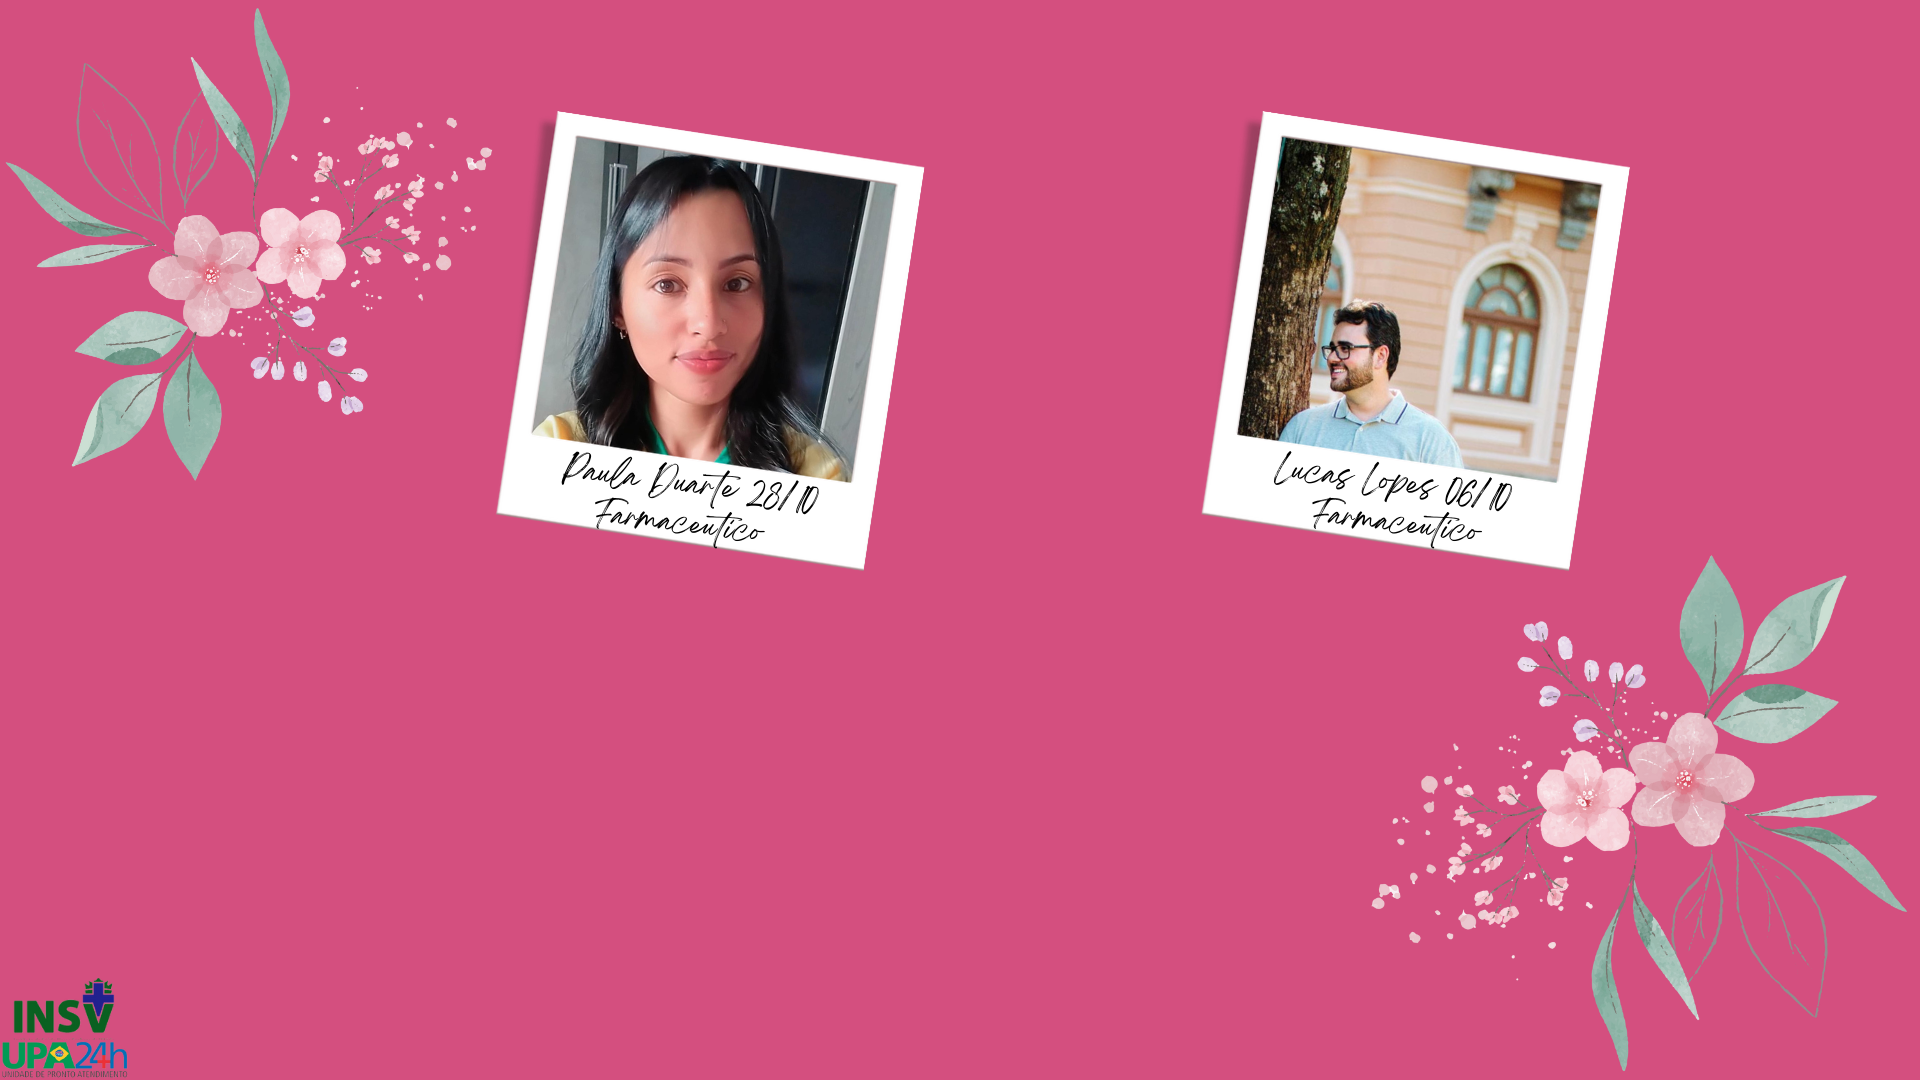
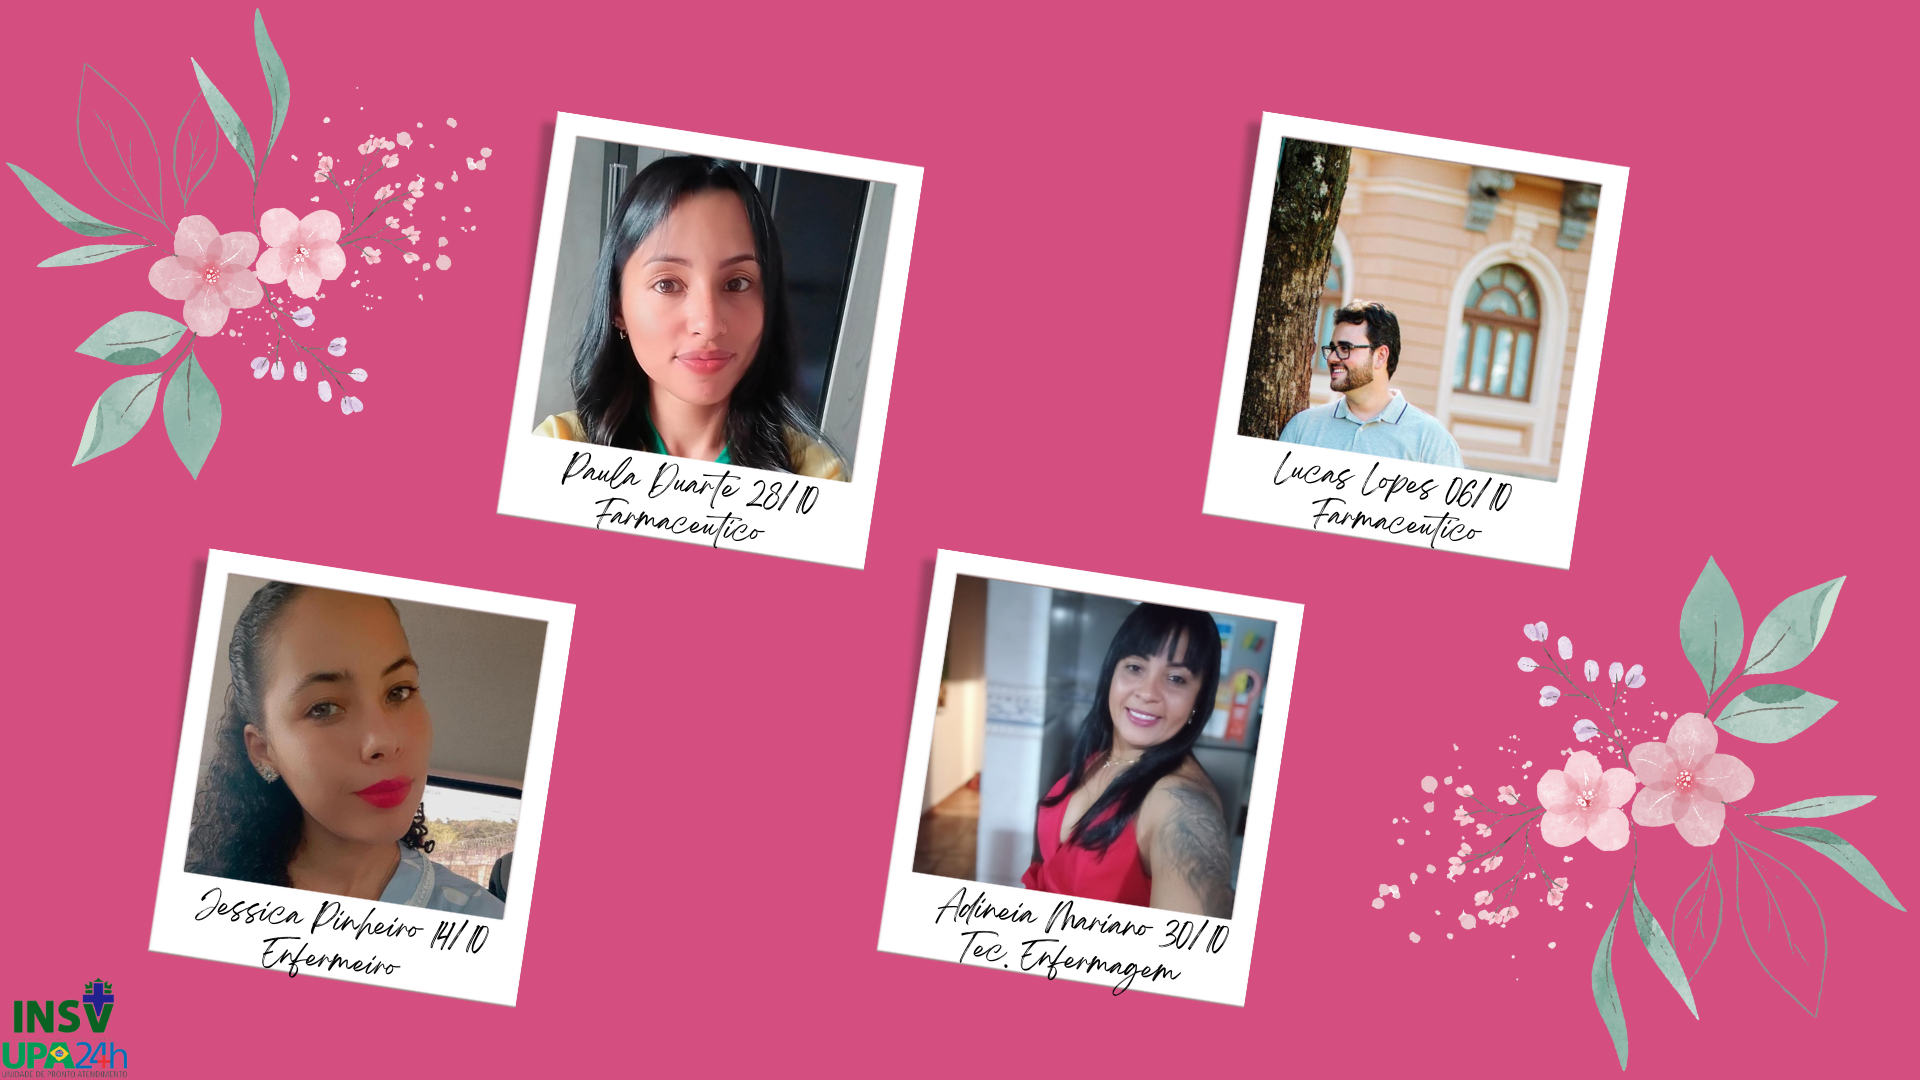
att 5.3

Changed region(s): [[0.0625, 0.4889, 0.3125, 0.9472], [0.4375, 0.4889, 0.6875, 0.9472]]

diff --git a/index.html b/index.html
@@ -44,6 +44,10 @@
         <img src="7.png" alt="" style="max-width: 100%; height: auto;">
       </div>
 
+      <div class="slide">
+        <img src="8.png" alt="" style="max-width: 100%; height: auto;">
+      </div>
+
     <!-- RECOMENDAÇÕES DA UPA (LOOKER STUDIO) -->
     <div class="slide">
       <iframe width="600" height="338" src="https://lookerstudio.google.com/embed/reporting/c111e834-20d8-47c8-8ba2-06db3c8d7c7c/page/AFr8C" frameborder="0" style="border:0" allowfullscreen></iframe>
